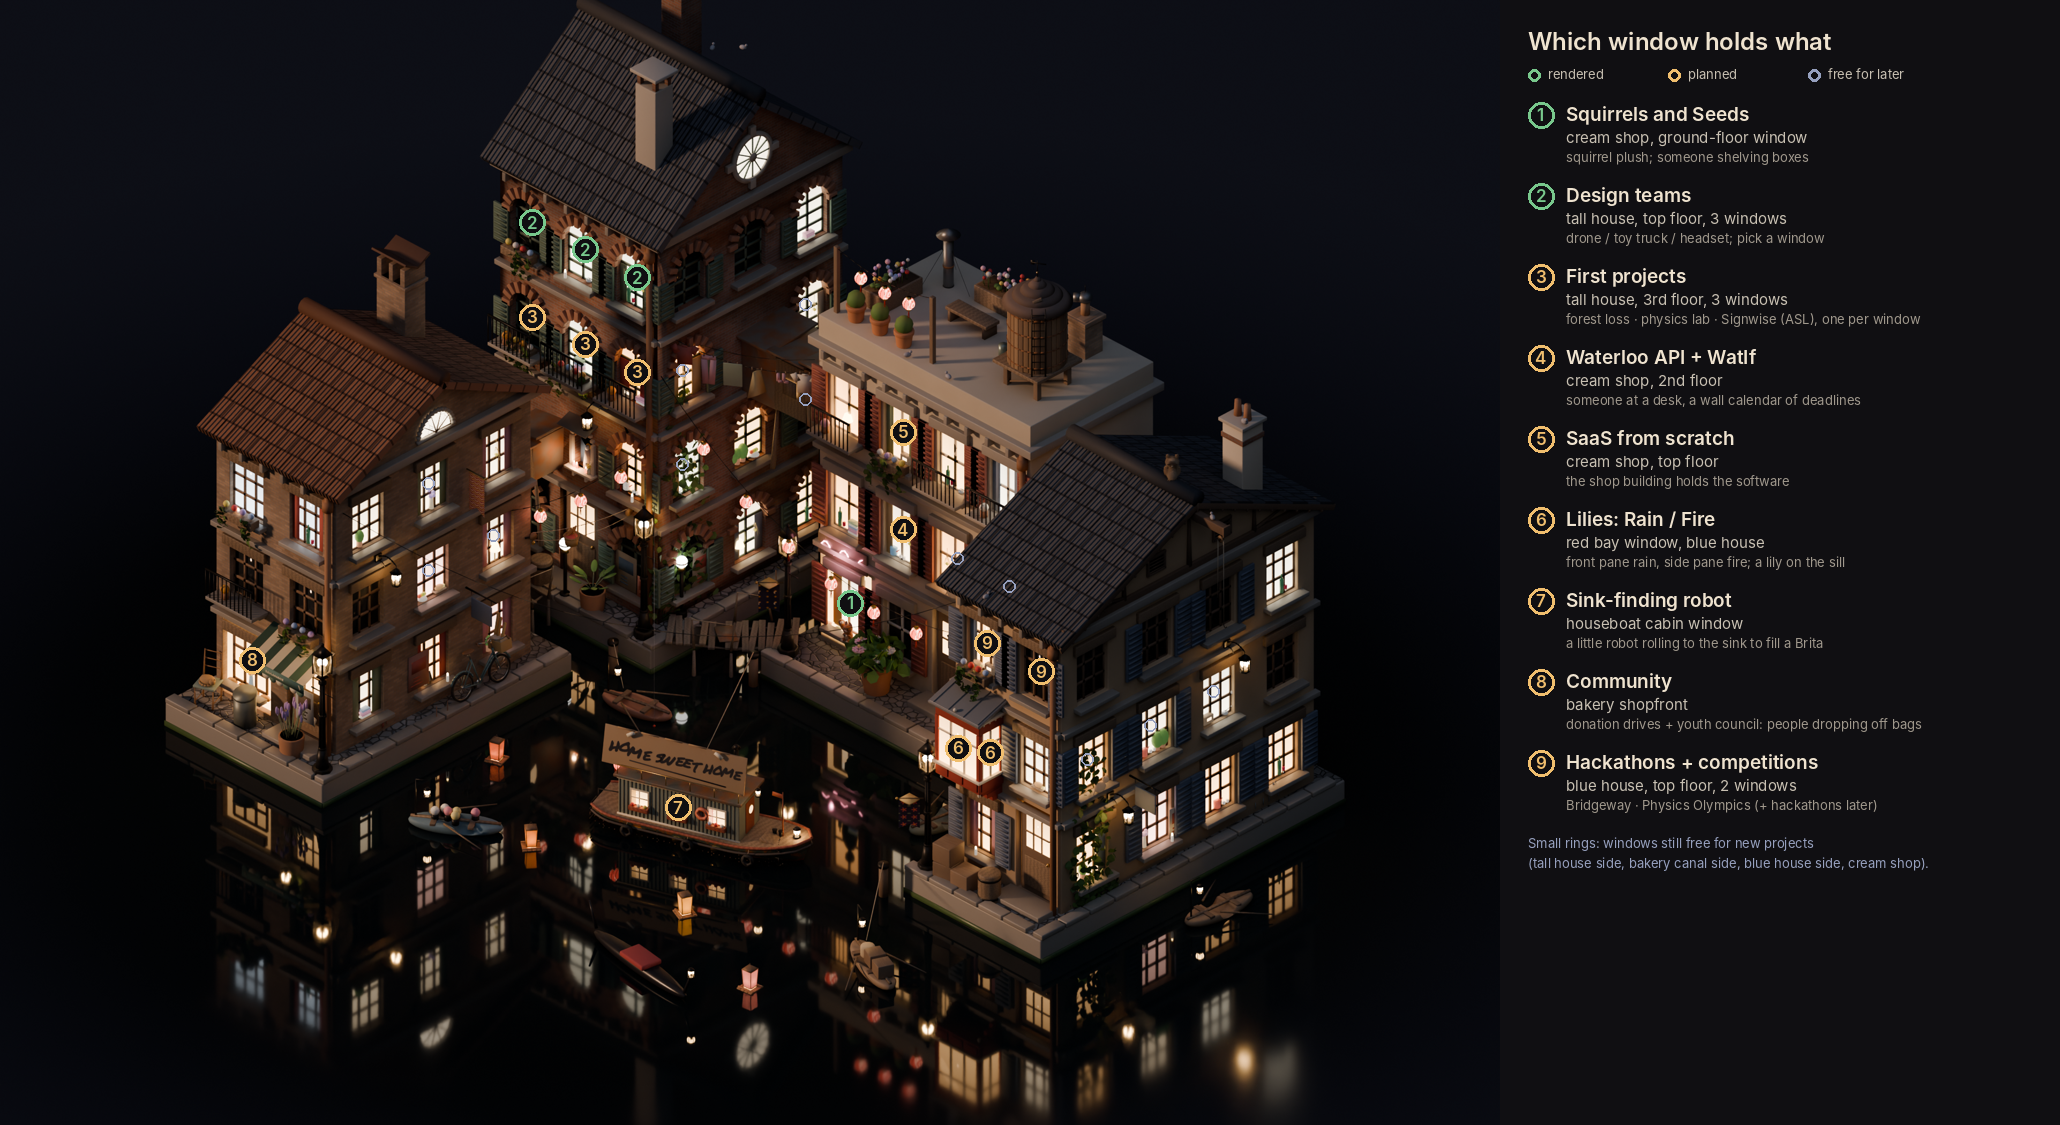
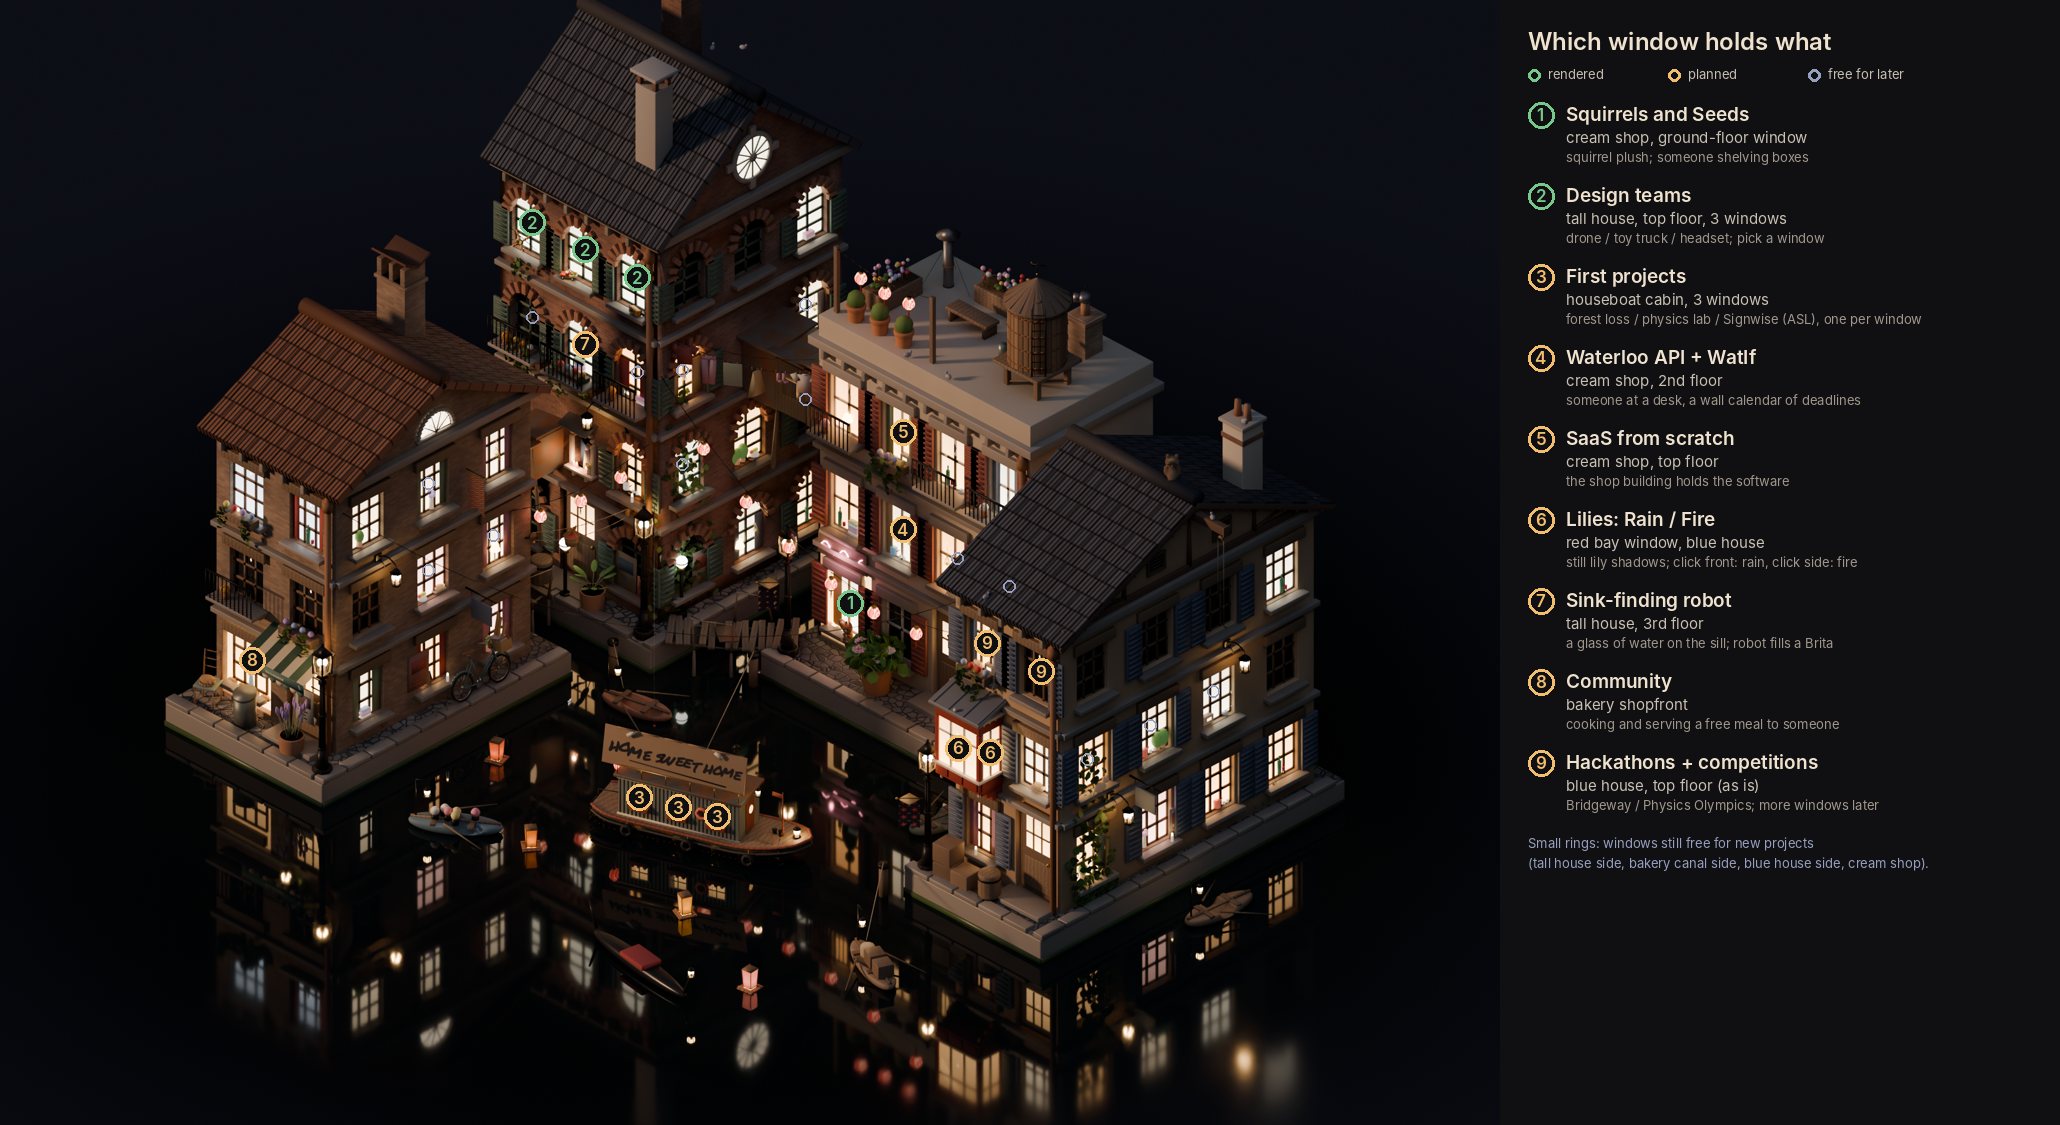
Window map v2: first projects on the houseboat, robot in the tall house; rounded barge stern, cat, bike and rain barrel
Claude-Session: https://claude.ai/code/session_01Fbz48bFvCJqM8u5c9nokEG

diff --git a/tools/blender/concepts/canal_final.py b/tools/blender/concepts/canal_final.py
@@ -501,10 +501,10 @@ def barge_hull(P, L, W=0.33, deck_mat=None, mat=None):
     prof = [(1.0, 0.0), (1.0, 0.06), (0.99, 0.13), (0.96, 0.2), (0.88, 0.3), (0.65, 0.55), (0.3, 0.9), (0.0, 1.0)]
     def half(t):
         if t > 0.42: return W * max(0.025, math.sqrt(max(0.0, 1 - ((t - 0.42) / 0.58) ** 2)) ** 0.9)
-        if t < -0.75: return W * (1 - 0.3 * ((-t - 0.75) / 0.25) ** 2)
+        if t < -0.5: return W * max(0.42, math.sqrt(max(0.0, 1 - ((-t - 0.5) / 0.56) ** 2)))   # a rounded counter stern
         return W
-    sheer = lambda t: 0.19 + 0.1 * max(0.0, (t - 0.3) / 0.7) ** 2 + 0.03 * max(0.0, (-t - 0.6) / 0.4) ** 2
-    keel = lambda t: -0.09 + 0.08 * max(0.0, (t - 0.55) / 0.45) ** 2
+    sheer = lambda t: 0.19 + 0.1 * max(0.0, (t - 0.3) / 0.7) ** 2 + 0.06 * max(0.0, (-t - 0.55) / 0.45) ** 2
+    keel = lambda t: -0.09 + 0.08 * max(0.0, (t - 0.55) / 0.45) ** 2 + 0.06 * max(0.0, (-t - 0.6) / 0.4) ** 2
     me = bpy.data.meshes.new('hull'); bm = _bm.new()
     rings = []
     for i in range(N + 1):
@@ -602,6 +602,27 @@ def houseboat(x, y, a, L=2.2):
     limb(rp + Vector((0, 0, 0.08)), rp + Vector((0, 0, 0.27)), 0.01, iron)
     limb(rp + Vector((0, 0, 0.26)), rp + Vector((0, 0, 0.29)) + d * 0.35, 0.008, iron)
     sphere('tiller_knob', rp + Vector((0, 0, 0.29)) + d * 0.36, 0.013, wood('gunwale', (0.45, 0.16, 0.11), 6), 8)
+    # a cat asleep on the bow deck, curled up
+    catf = solid('cat_fur', (0.42, 0.42, 0.4), 0.8)
+    cp = P(L * 0.3, 0.14, sheer(0.6) + 0.035)
+    sphere('boat_cat', cp, 0.05, catf, 14, (1.3, 1.0, 0.6))
+    sphere('boat_cat', cp + d * 0.05 + s_ * 0.02 + Vector((0, 0, 0.012)), 0.03, catf, 12)
+    for sg in (-1, 1):
+        cyl('boat_cat_ear', cp + d * 0.06 + s_ * (0.02 + sg * 0.014) + Vector((0, 0, 0.04)), 0.009, 0.018, catf, verts=4, r2=0.0)
+    limb(cp - d * 0.06, cp - d * 0.02 - s_ * 0.06 + Vector((0, 0, -0.01)), 0.009, catf)
+    # an old bike leaning on the cabin, and a rain barrel at the stern
+    bk = solid('bike_frame', (0.15, 0.3, 0.32), 0.5, metal=0.4)
+    for k, du in enumerate((-0.12, 0.12)):
+        wc = P(-0.15 - L * 0.3 + 0.95 + du, -0.27, 0.27)
+        w_ = cyl('bike_wheel', wc, 0.07, 0.008, iron, verts=24, rot=(math.pi / 2, 0, a)); cut(w_, cyl('bw_hole', wc, 0.063, 0.05, None, verts=24, rot=(math.pi / 2, 0, a)))
+    b0, b1 = P(-0.15 - L * 0.3 + 0.83, -0.27, 0.27), P(-0.15 - L * 0.3 + 1.07, -0.27, 0.27)
+    seat, bar = P(-0.15 - L * 0.3 + 0.9, -0.27, 0.38), P(-0.15 - L * 0.3 + 1.05, -0.27, 0.4)
+    for a_, b_ in ((b0, seat), (seat, bar), (bar, b1), (seat, P(-0.15 - L * 0.3 + 0.95, -0.27, 0.28)), (P(-0.15 - L * 0.3 + 0.95, -0.27, 0.28), b1)):
+        limb(a_, b_, 0.006, bk)
+    box('bike_saddle', seat + Vector((0, 0, 0.012)), (0.05, 0.02, 0.012), solid('saddle', (0.1, 0.07, 0.05), 0.6), bevel=0.004, rot=R_)
+    bp_ = P(-L * 0.44, 0.12, sheer(-0.88))
+    cyl('rain_barrel', bp_ + Vector((0, 0, 0.07)), 0.055, 0.14, wood('barrel', (0.36, 0.24, 0.14), 6), verts=16, r2=0.05)
+    for hz in (0.03, 0.11): cyl('barrel_hoop', bp_ + Vector((0, 0, hz)), 0.057, 0.008, iron, verts=16)
     # a short mast at the bow with a faded pennant
     mp_ = P(L * 0.4, 0.0, sheer(0.8) - 0.02)
     limb(mp_, mp_ + Vector((0, 0, 0.55)), 0.01, wood('gunwale', (0.45, 0.16, 0.11), 6))
